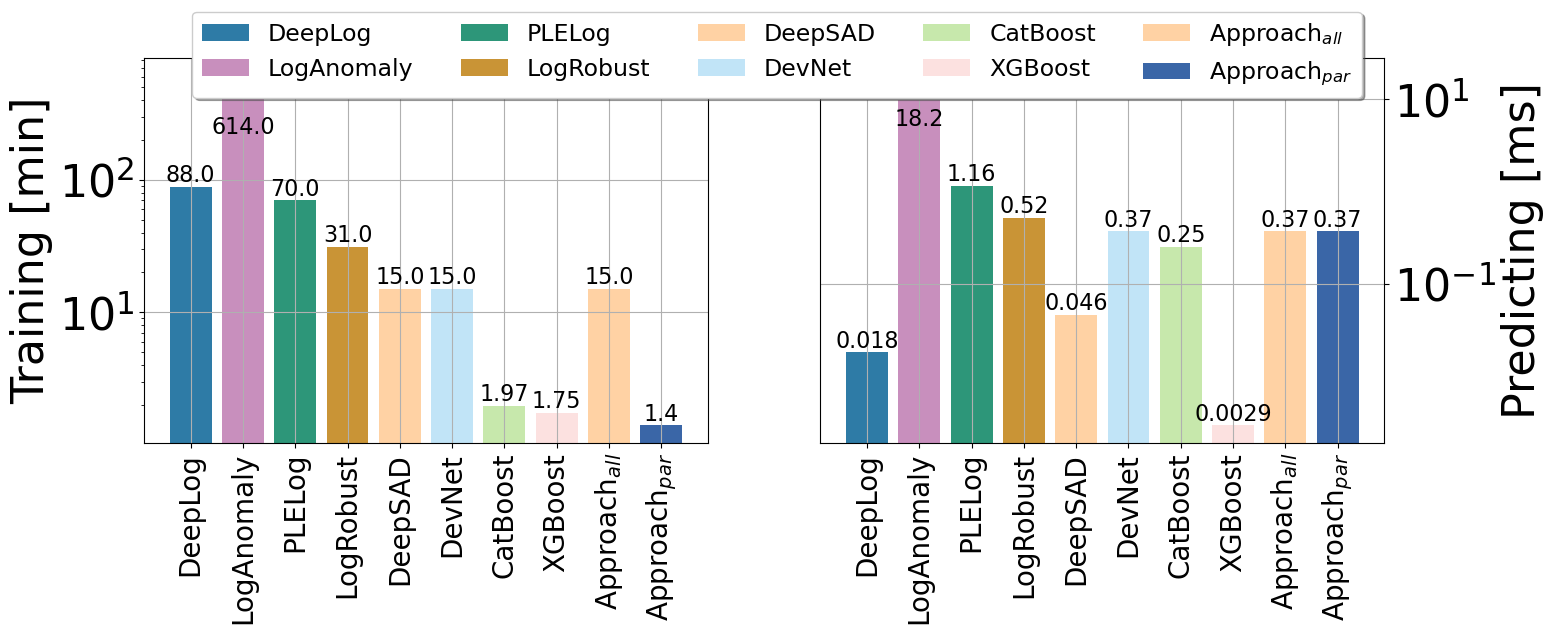
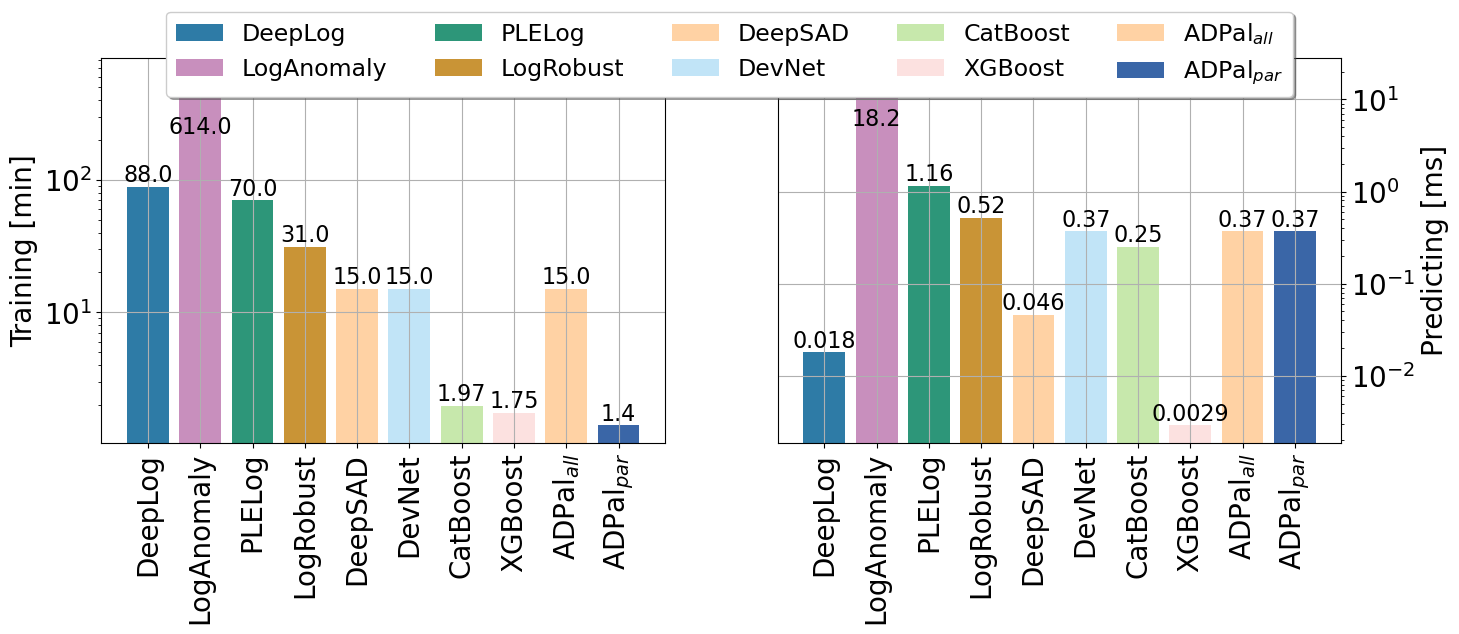
update

Changed region(s): [[0.0, 0.03, 1.0, 0.989]]

diff --git a/thesis_draw/draw.py b/thesis_draw/draw.py
@@ -8,11 +8,11 @@ from matplotlib.gridspec import GridSpec
 #          'axes.titlesize':'x-large',
 #          'xtick.labelsize':'x-large',
 #          'ytick.labelsize':'x-large'}
-params = {'legend.fontsize': '32',
-         'axes.labelsize': '32',
-         'axes.titlesize':'32',
-         'xtick.labelsize':'32',
-         'ytick.labelsize':'32'}
+params = {'legend.fontsize': '20',
+         'axes.labelsize': '20',
+         'axes.titlesize':'20',
+         'xtick.labelsize':'20',
+         'ytick.labelsize':'20'}
 plt.rcParams.update(params)
 
 def draw_train_test_time():
@@ -23,7 +23,7 @@ def draw_train_test_time():
     ax11 = ax[0]
 
     # 绘制柱状图
-    x = ['DeepLog', 'LogAnomaly', 'PLELog', 'LogRobust', 'DeepSAD', 'DevNet', 'CatBoost', 'XGBoost', 'Approach$_{all}$', 'Approach$_{par}$']
+    x = ['DeepLog', 'LogAnomaly', 'PLELog', 'LogRobust', 'DeepSAD', 'DevNet', 'CatBoost', 'XGBoost', 'ADPal$_{all}$', 'ADPal$_{par}$']
     y_train = [88, 614, 70, 31, 15, 15, 1.97, 1.75, 15, 1.4]
     c_train = [
         '#2e7ba6', '#c88fbd', '#2d9679', '#c99436', '#ffd2a4', 
@@ -46,7 +46,7 @@ def draw_train_test_time():
 
 
     ax12 = ax[1]
-    x = ['DeepLog', 'LogAnomaly', 'PLELog', 'LogRobust', 'DeepSAD', 'DevNet', 'CatBoost', 'XGBoost', 'Approach$_{all}$', 'Approach$_{par}$']
+    x = ['DeepLog', 'LogAnomaly', 'PLELog', 'LogRobust', 'DeepSAD', 'DevNet', 'CatBoost', 'XGBoost', 'ADPal$_{all}$', 'ADPal$_{par}$']
     y_test = [0.018, 18.20, 1.16, 0.52, 0.046, 0.37, 0.25, 0.0029, 0.37, 0.37]
     c_test = [
         '#2e7ba6', '#c88fbd', '#2d9679', '#c99436', '#ffd2a4', 
@@ -70,11 +70,11 @@ def draw_train_test_time():
 
     # plt.subplots_adjust(left=0.1, bottom=0.01)
 
-    # 图例: ['DeepLog', 'LogAnomaly', 'PLELog', 'LogRobust', 'DeepSAD', 'DevNet', 'CatBoost', 'XGBoost', 'Approach$_{all}$', 'Approach$_{par}$']
+    # 图例: ['DeepLog', 'LogAnomaly', 'PLELog', 'LogRobust', 'DeepSAD', 'DevNet', 'CatBoost', 'XGBoost', 'ADPal$_{all}$', 'ADPal$_{par}$']
 
     # 统一设置图例
     fig.legend((plot11[0], plot11[1], plot11[2], plot11[3], plot11[4], plot11[5], plot11[6], plot11[7], plot11[8], plot11[9]),
-                ('DeepLog', 'LogAnomaly', 'PLELog', 'LogRobust', 'DeepSAD', 'DevNet', 'CatBoost', 'XGBoost', 'Approach$_{all}$', 'Approach$_{par}$'),
+                ('DeepLog', 'LogAnomaly', 'PLELog', 'LogRobust', 'DeepSAD', 'DevNet', 'CatBoost', 'XGBoost', 'ADPal$_{all}$', 'ADPal$_{par}$'),
                 loc='upper center', ncol=5, fancybox=True, shadow=True, fontsize=17)
     plt.savefig(
         "./train_test_time.png", bbox_inches='tight')
@@ -148,10 +148,10 @@ def draw_radar1():
     plot8 = ax11.plot(angles, XGBoost, 'o-', linewidth=2,label='XGBoost')
     # ax11.fill(angles, XGBoost, alpha=0.25)
 
-    plot9 = ax11.plot(angles, Approachall, 'o-', linewidth=2,label='Approach$_{all}$')
+    plot9 = ax11.plot(angles, Approachall, 'o-', linewidth=2,label='ADPal$_{all}$')
     # ax11.fill(angles, Approachall, alpha=0.25)
 
-    plot10 = ax11.plot(angles, Approachpar, 'o-', linewidth=2,label='Approach$_{par}$')
+    plot10 = ax11.plot(angles, Approachpar, 'o-', linewidth=2,label='ADPal$_{par}$')
     # ax11.fill(angles, Approachpar, alpha=0.25)
 
     ax11.set_thetagrids(
@@ -162,7 +162,7 @@ def draw_radar1():
 
     # 设置图例的位置
     ax11.legend((plot1[0], plot2[0], plot3[0], plot4[0], plot5[0], plot6[0], plot7[0], plot8[0], plot9[0], plot10[0]),
-                ('DeepLog', 'LogAnomaly', 'PLELog', 'LogRobust', 'DeepSAD', 'DevNet', 'CatBoost', 'XGBoost', 'Approach$_{all}$', 'Approach$_{par}$'),
+                ('DeepLog', 'LogAnomaly', 'PLELog', 'LogRobust', 'DeepSAD', 'DevNet', 'CatBoost', 'XGBoost', 'ADPal$_{all}$', 'ADPal$_{par}$'),
                 loc='lower right', ncol=1, fancybox=True, shadow=True, prop = {'size':8})
     
     plt.savefig(
@@ -190,19 +190,19 @@ def draw_radar2():
     angles=np.linspace(0, 2*np.pi,len(Approachall)-1, endpoint=False)
     angles = np.concatenate((angles,[angles[0]]))
 
-    plot1 = ax11.plot(angles, Approachlst, 'o-', linewidth=2,label='Approach$_lst$')
+    plot1 = ax11.plot(angles, Approachlst, 'o-', linewidth=2,label='ADPal$_lst$')
     # ax11.fill(angles, Approachlst, alpha=0.25)
     # 添加每个数据点的标签
     for angle, value in zip(angles, Approachlst):
         ax11.text(angle, value, '%.2f' % value, color=cs[0], fontsize=10)
 
-    plot2 = ax11.plot(angles, Approachbce, 'o-', linewidth=2,label='Approach$_bce$')
+    plot2 = ax11.plot(angles, Approachbce, 'o-', linewidth=2,label='ADPal$_bce$')
     # ax11.fill(angles, Approachbce, alpha=0.25)
     # 添加每个数据点的标签
     for angle, value in zip(angles, Approachbce):
         ax11.text(angle, value, '%.2f' % value, color=cs[1], fontsize=10)
 
-    plot3 = ax11.plot(angles, Approachall, 'o-', linewidth=2,label='Approach$_all$')
+    plot3 = ax11.plot(angles, Approachall, 'o-', linewidth=2,label='ADPal$_all$')
     # ax11.fill(angles, Approachall, alpha=0.25)
     # 添加每个数据点的标签
     for angle, value in zip(angles, Approachall):
@@ -216,7 +216,7 @@ def draw_radar2():
 
     # 设置图例的位置
     ax11.legend((plot1[0], plot2[0], plot3[0]),
-                ('Approach$_{lst}$', 'Approach$_{bce}$', 'Approach$_{all}$'),
+                ('ADPal$_{lst}$', 'ADPal$_{bce}$', 'ADPal$_{all}$'),
                 loc='lower right', ncol=1, fancybox=True, shadow=True,
                 # prop = {'size':8}
                 )
